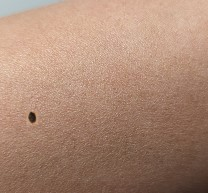
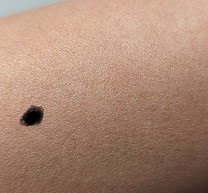
improve algorithm

Changed region(s): [[0.0865, 0.5285, 0.2308, 0.6839]]

diff --git a/app/static/contents/our_story.html b/app/static/contents/our_story.html
@@ -3,22 +3,37 @@
     <h3 style="color:antiquewhite;">❗Make sure to keep it at the center of the image.</h3>
     <div style="display:flex;justify-content:center;">
         <div style="text-align:center;margin-right:60px;">
-            <img src="static/images/step1.jpg" width="128" height="128" style="display:block;margin:auto;">
+            <img src="static/images/step1_large.jpg" width="128" height="128" style="display:block;margin:auto;border-radius: 10%;">
             <p style="color:antiquewhite;">✅ Correct</p>
         </div>
         <div style="text-align:center;margin-right:200px;">
-            <img src="static/images/step1_incorrect.jpg" width="128" height="128" style="display:block;margin:auto;">
+            <img src="static/images/step1_incorrect.jpg" width="128" height="128" style="display:block;margin:auto;border-radius: 10%;">
+            <p style="color:antiquewhite;">❌ Incorrect</p>
+        </div>
+    </div>
+    <h3 style="color:antiquewhite;">❗Try to capture the concern spots as large as posible (but not too large, i.e: the spots take up the entire/most of the frame, zooming...), otherwise it will give a false result.</h3>
+    <div style="display:flex;justify-content:center;">
+        <div style="text-align:center;margin-right:60px;">
+            <img src="static/images/step1_large.jpg" width="128" height="128" style="display:block;margin:auto;border-radius: 10%;">
+            <p style="color:antiquewhite;">✅ Correct</p>
+        </div>
+        <div style="text-align:center;margin-right:60px;">
+            <img src="static/images/step1_small.jpg" width="128" height="128" style="display:block;margin:auto;border-radius: 10%;">
+            <p style="color:antiquewhite;">❌ Incorrect</p>
+        </div>
+        <div style="text-align:center;margin-right:60px;">
+            <img src="static/images/step1_toolarge.jpg" width="128" height="128" style="display:block;margin:auto;border-radius: 10%;">
             <p style="color:antiquewhite;">❌ Incorrect</p>
         </div>
     </div>
     <h2 style="color:antiquewhite;"><span style="color:#74E291">Step 2:</span> Keep even light exposure while taking photo.</h2>
     <div style="display:flex;justify-content:center;">
         <div style="text-align:center;margin-right:60px;">
-            <img src="static/images/step2.jpg" width="128" height="128" style="display:block;margin:auto;">
+            <img src="static/images/step2.jpg" width="128" height="128" style="display:block;margin:auto;border-radius: 10%;">
             <p style="color:antiquewhite;">✅ Correct</p>
         </div>
         <div style="text-align:center;margin-right:200px;">
-            <img src="static/images/step2_incorrect.jpg" width="128" height="128" style="display:block;margin:auto;">
+            <img src="static/images/step2_incorrect.jpg" width="128" height="128" style="display:block;margin:auto;border-radius: 10%;">
             <p style="color:antiquewhite;">❌ Incorrect</p>
         </div>
     </div>

diff --git a/app/templates/skin-cancer-detection.html b/app/templates/skin-cancer-detection.html
@@ -120,6 +120,8 @@
         
         #story-container {
             text-align: justify;
+            width: 60%;
+            margin: auto;
         }
 
         #resultText {
@@ -373,8 +375,10 @@
             <!-- Upload button -->
             <label for="photoInput">Choose a Photo</label>
             <input type="file" id="photoInput" accept="image/jpeg, image/png" onchange="handleFileSelect()">
+            <!-- Show file name -->
             <p id="selectedFileName">Selected File: {{file_name}}</p>
-            <img id="selectedImage" src="{{url_for('static',filename='uploads/'+src_photo)}}" alt="Selected Image" width="32" height="32">
+            <!-- Show mini photo -->
+            <img id="selectedImage" src="{{url_for('static',filename='uploads/'+src_photo)}}" alt="Selected Image" width="32" height="32" style="border-radius: 10%;">
             <p></p>
             <!-- Run analysis button-->
             <button id="submitButton" type="submit" onclick="submitForm()">Analyse Photo</button>
